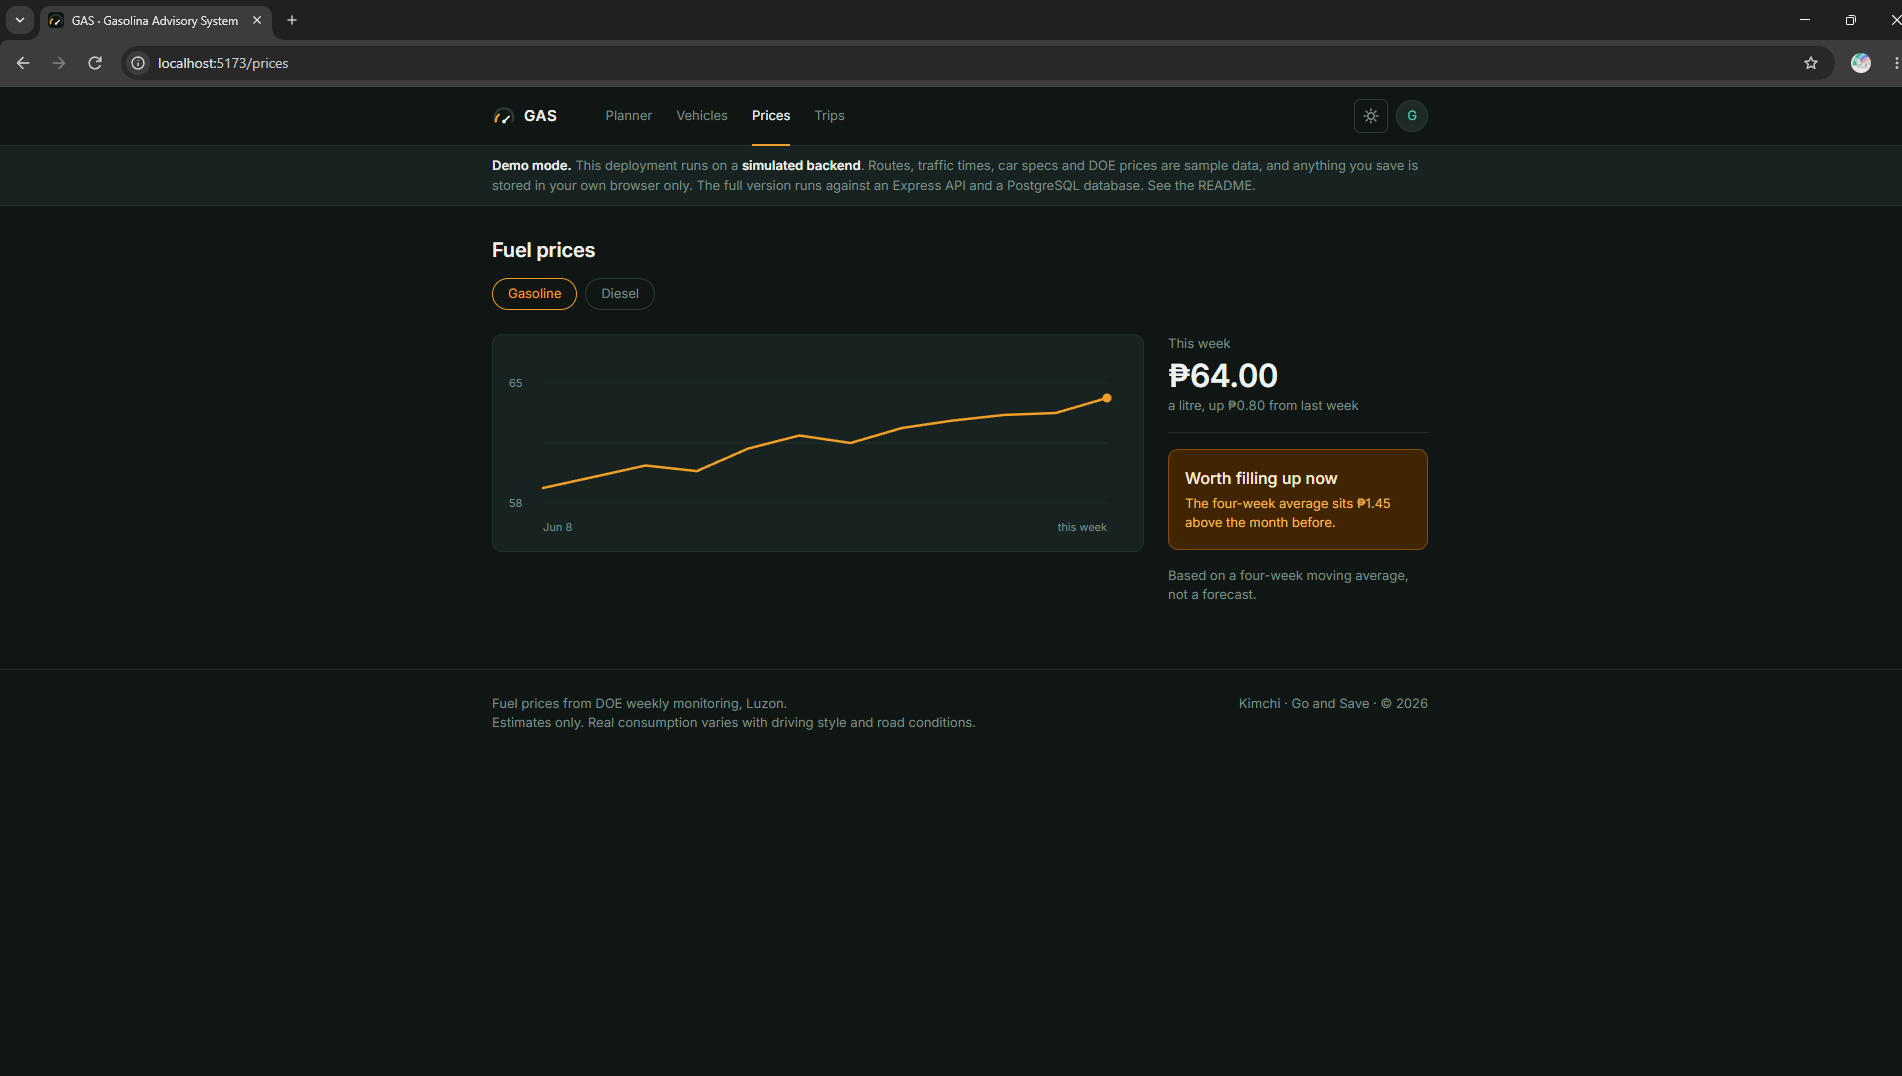
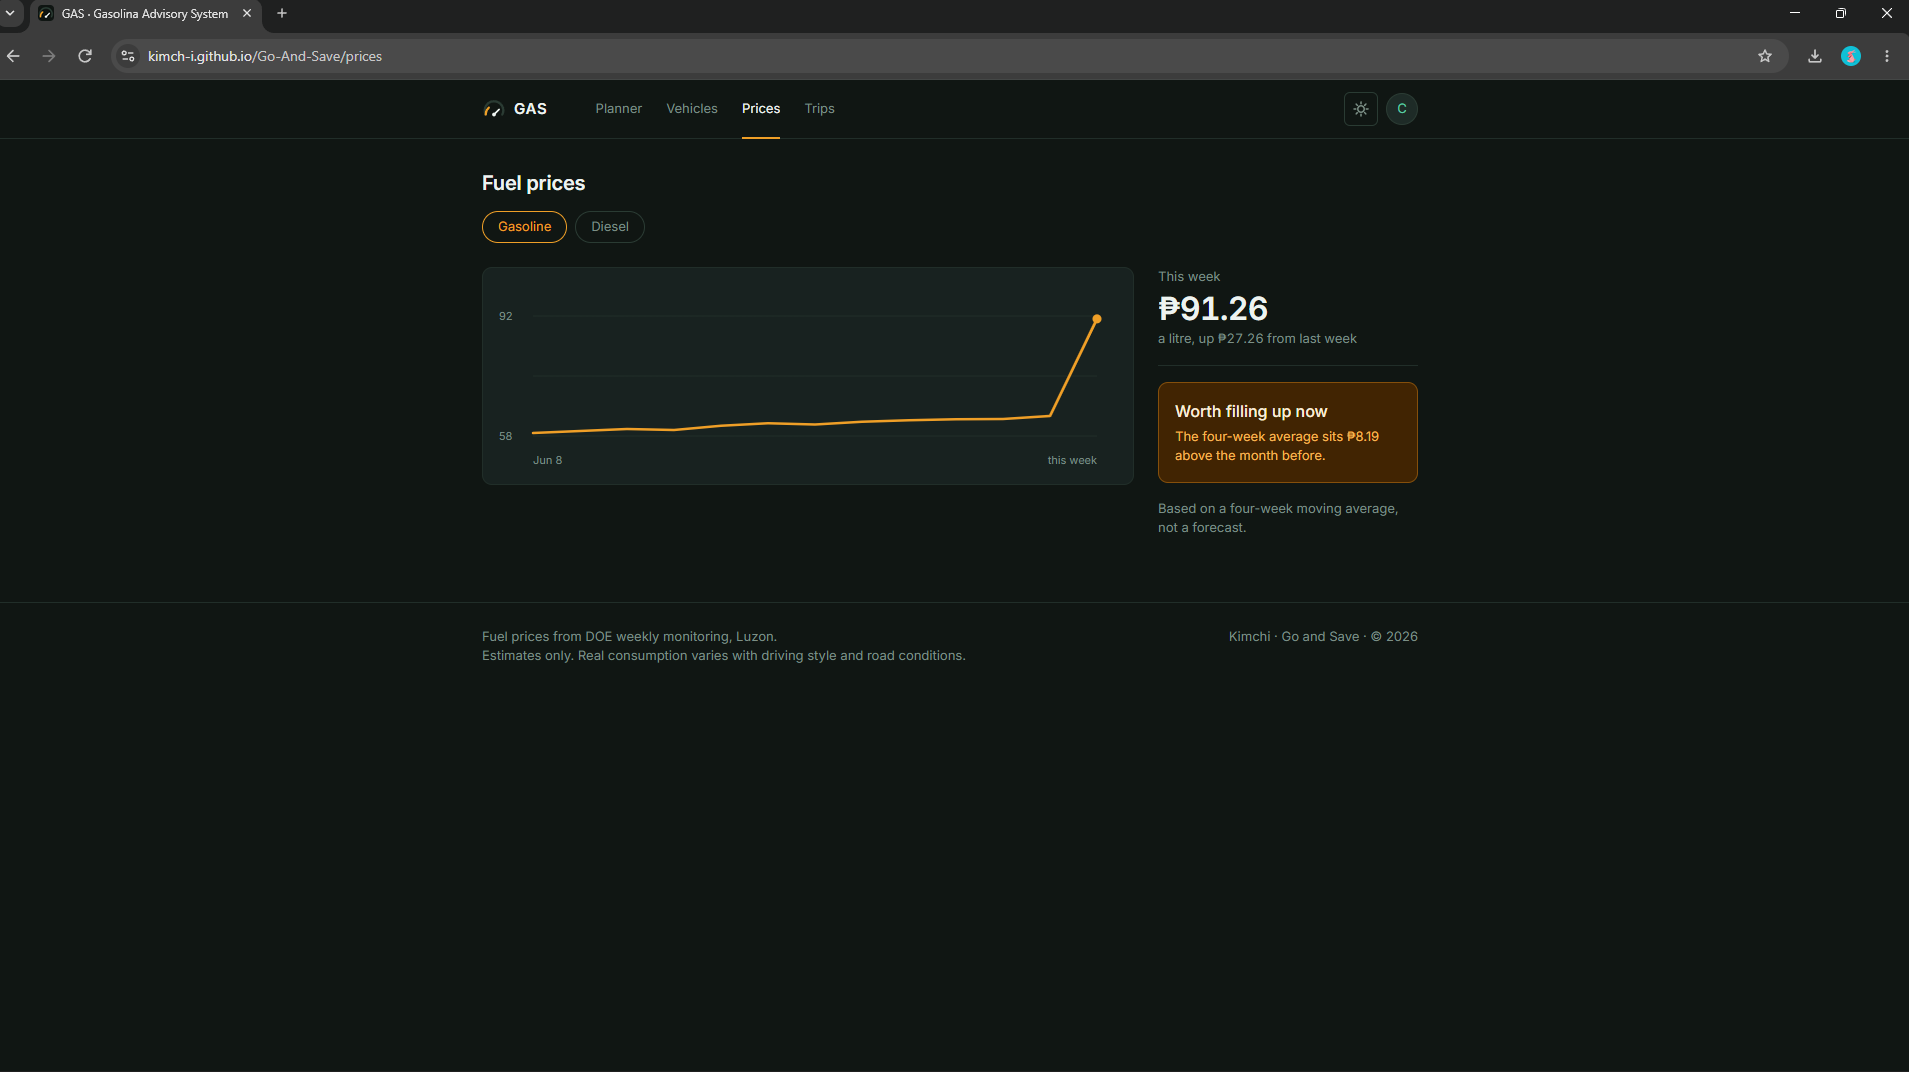
docs: Update the Readme file based on the current progress

diff --git a/README.md b/README.md
@@ -4,18 +4,15 @@ GAS tells a Philippine driver what a trip will cost in fuel before they leave:
 once for clear roads, and once for the traffic happening right now.
 
 **Live site:** https://kimch-i.github.io/Go-And-Save/
-**API:** not deployed yet
+**API:** https://gas-server-scf1.onrender.com
 **Demo video:** (link)
-
-> **This deployment is running in demo mode.** The interface is real; the backend
-> is simulated in your browser so the site works without a server. See
-> [Demo mode](#demo-mode) below. Delete this quote once the API is live.
 
 ![The Trip Planner Page](docs/assets/TripPlanner.png)
 ![List of Vehicles](docs/assets/Vehicles.png)
 ![Price graph of Gasoline](docs/assets/FuelPriceGasoline.png)
 ![Price graph of Diesel](docs/assets/FuelPriceDiesel.png)
 ![List of Save Trips](docs/assets/SaveTrips.png)
+![Profile Page](docs/assets/Profile.png)
 ![Page for LogIn](docs/assets/LogIn.png)
 ![Page for SignUp](docs/assets/SignUp.png)
 
@@ -25,9 +22,13 @@ once for clear roads, and once for the traffic happening right now.
   say how many people and how much cargo are riding
 - See two peso figures side by side: **if the road were clear**, and **leaving now**
   in current traffic, plus what traffic adds per trip and per month
-- Save trips and see what a repeated commute costs, and how much of it is lost to traffic
-- Pick your car from a catalog of Philippine-market vehicles instead of guessing your km/L
-- Check this week's DOE fuel price and whether it is worth filling up now
+- Save trips and see what a repeated commute costs, how much of it is lost to
+  traffic, and two charts of fuel spend and distance by day
+- Pick your car from a catalog of 66 Philippine-market vehicles instead of
+  guessing your km/L
+- Check this week's fuel price and whether it is worth filling up now, on a
+  price history that a weekly automated check keeps current (see
+  [Fuel price updates](#fuel-price-updates) below)
 
 Traffic does not change the distance, it changes the time. The extra cost is the
 fuel burned idling in the delay, which is why the two figures differ.
@@ -37,7 +38,7 @@ fuel burned idling in the delay, which is why the two figures differ.
 React and Vite on the front end, with React Router, CSS Modules and Leaflet with
 OpenStreetMap tiles. Express and PostgreSQL on the back end, with route times from
 the TomTom Routing API and place search from Nominatim. The client is on GitHub
-Pages; the API and database hosts are not chosen yet.
+Pages, the database is hosted on Neon, and the API is on Render.
 
 ## Demo mode
 
@@ -46,15 +47,17 @@ time.
 
 **Demo mode is the default.** Only the exact string `false` turns it off, so a
 forgotten or mistyped variable leaves you on the simulated backend with a visible
-notice rather than on a silently broken build.
+notice rather than on a silently broken build. The deployed site above is built
+with it off, so it talks to the real API.
 
 | `VITE_USE_MOCK_API` | What happens |
 | --- | --- |
-| unset, or `true` | The client answers its own requests from `client/src/api/mockApi.js`. Routes, traffic times, car specs and DOE prices come from `seed.json`; saved vehicles and trips stay in your browser. |
+| unset, or `true` | The client answers its own requests from `client/src/api/mockApi.js`. Routes, traffic times, car specs and prices come from `seed.json`; saved vehicles and trips stay in your browser. |
 | `false` | The client calls the Express API at `VITE_API_BASE_URL`, which reads and writes real PostgreSQL. |
 
-Demo mode is a starting point and a fallback, not the finished project. The finals
-submission is all three pieces deployed and talking to each other.
+Demo mode is still useful for running the front end with nothing to install, but
+the finals submission is all three pieces deployed and talking to each other,
+which is now the case for the live site.
 
 ## Running it yourself
 
@@ -66,9 +69,17 @@ submission is all three pieces deployed and talking to each other.
     npm run dev                 # http://localhost:5173
     npm test                    # the estimate maths, price trend and api layer
 
-**The whole stack.** The `server/` folder is still the course template's example
-API. It becomes the GAS API next; the routes it needs are listed at the top of
-`client/src/api/httpApi.js`.
+**The whole stack, locally.**
+
+    cd server
+    npm install
+    cp .env.example .env        # fill in DATABASE_URL, TOMTOM_API_KEY, JWT_SECRET
+    npm run db:reset            # creates tables, loads the 66-car catalog and price history
+    npm run dev                 # http://localhost:3000
+
+    cd client
+    # set VITE_USE_MOCK_API=false and VITE_API_BASE_URL=http://localhost:3000 in .env
+    npm run dev                 # http://localhost:5173
 
 ## Environment variables
 
@@ -77,11 +88,12 @@ placeholder values.
 
 | Name | Where | What it is |
 | --- | --- | --- |
-| `DATABASE_URL` | server | PostgreSQL connection string. Contains a password |
+| `DATABASE_URL` | server | PostgreSQL connection string (a Neon string in production). Contains a password |
 | `CORS_ORIGINS` | server | comma-separated origins allowed to call the API |
 | `TOMTOM_API_KEY` | server | for route and traffic times. Never in a `VITE_` variable |
-| `NODE_ENV` | server | `production` on the host |
-| `PORT` | server | set by the host |
+| `JWT_SECRET` | server | signs login tokens |
+| `NODE_ENV` | server | `production` on the host, `development` locally |
+| `PORT` | server | set by the host, never set this yourself |
 | `VITE_USE_MOCK_API` | client, at build time | only `false` turns demo mode off |
 | `VITE_API_BASE_URL` | client, at build time | the API's public URL, no trailing slash |
 
@@ -94,12 +106,37 @@ publishes on every push to `main` that touches `client/`. One-time setup:
 
 1. The repository must be **public**.
 2. **Settings > Pages > Build and deployment > Source: GitHub Actions.**
-3. Once the API is live, set `VITE_USE_MOCK_API` = `false` and `VITE_API_BASE_URL`
-   under **Settings > Secrets and variables > Actions > Variables**, then re-run
-   the workflow.
+3. **Settings > Secrets and variables > Actions > Variables**, set
+   `VITE_USE_MOCK_API` = `false` and `VITE_API_BASE_URL` to the API's URL.
 
 The workflow sets the base path to `/Go-And-Save/`, and the build copies
 `index.html` to `404.html`, so refreshing on `/trips` or `/vehicles` still works.
+
+**Database, on Neon.** Free tier, no card required. Chosen over Render's own
+free Postgres, which deletes itself after 30 days, a bad fit for a project
+that runs the whole term. Create a project, copy the connection string, then
+from `server/` run `npm run db:schema` and `npm run db:seed` against it once.
+
+**API, on Render.** New Web Service, connect the repo, root directory
+`server`, build command `npm install`, start command `npm start`, instance
+type Free. Set `DATABASE_URL` (the Neon string), `CORS_ORIGINS`, `NODE_ENV`,
+`TOMTOM_API_KEY` and `JWT_SECRET` under Environment. Do not set `PORT`, the
+host sets it. The free instance sleeps after 15 minutes idle, so the first
+request after a while takes 30 to 60 seconds to wake it up.
+
+## Fuel price updates
+
+Prices are not scraped live into the app. A scheduled GitHub Actions workflow
+(`.github/workflows/update-fuel-prices.yml`) checks a public price page once a
+week, and if it finds a plausible new number, opens a pull request with it
+rather than writing it into the database directly, I still have to look at
+the source and merge it myself. If the page cannot be parsed, the workflow
+fails loudly and nothing is written, on purpose, a bad number nobody checked
+is worse than a stale one.
+
+Merging that pull request only changes `seed.sql` and `seed.json` in the
+repo. It does not update the live database, `npm run db:seed` still has to be
+run against it by hand afterwards.
 
 ## Project structure
 
@@ -117,10 +154,19 @@ The workflow sets the base path to `/Go-And-Save/`, and the build copies
         components/
           atoms/          Button, TextInput, Select, Checkbox, Stepper, Tag, Spinner, Logo
           molecules/      LocationSearch, CostCard, LoadPanel, VehicleRow, TripRow, ...
-          organisms/      Header, Footer, TripForm, RouteMap, EstimateResult, TripTable, ...
+          organisms/      Header, Footer, TripForm, RouteMap, EstimateResult, TripTable,
+                           TripBarChart, PriceChart, ...
         pages/            one folder per route, plus AppLayout
-    server/               Express API (still the template's example)
-    docs/                 planning documents and weekly reports
+    server/
+      server.js          routes, helmet, rate limiting, error handling
+      auth.js            password hashing, JWT sign and verify
+      validate.js        server-side request validation
+      tomtom.js           route and traffic times
+      nominatim.js        place search
+      db/                 pool, schema.sql, seed.sql, one repo file per table
+    scripts/
+      update-fuel-prices.mjs   the weekly price check
+    docs/                planning documents and weekly reports
 
 Each component is a folder with a `.jsx` file and a `.module.css` file. A level
 never imports the level above it.
@@ -129,57 +175,68 @@ never imports the level above it.
 | --- | --- |
 | `/` | Trip Planner — works fully without an account |
 | `/vehicles`, `/vehicles/add` | Your vehicles, and the catalog search |
-| `/prices` | DOE prices, 12-week chart, fill-up-now reading |
-| `/trips` | Saved trips, monthly totals, lost to traffic |
+| `/prices` | Fuel prices, weekly chart, fill-up-now reading |
+| `/trips` | Saved trips, monthly totals, lost to traffic, spend and distance charts |
 | `/auth` | Log in / Sign up, one route with two tabs |
 | `/profile` | Account, theme, default vehicle, home location, export |
 
-## API (planned, not built yet)
+## API
 
-The client already calls these through `client/src/api/httpApi.js`. The Express
-server in `server/` will provide them; right now it is still the course
-template's example API.
+Express server in `server/`, deployed to Render.
 
 | Method | Path | What it does |
 | --- | --- | --- |
+| GET | `/healthz` | Is the process alive |
+| GET | `/readyz` | Is the database reachable |
 | GET | `/api/places?q=` | Search places (Nominatim) |
 | GET | `/api/route` | Distance plus traffic and no-traffic travel time (TomTom) |
-| GET | `/api/prices` | Weekly DOE fuel prices |
+| GET | `/api/prices` | Weekly fuel prices |
 | GET | `/api/cars?q=` | Search the Philippine car catalog |
 | GET, POST | `/api/vehicles` | List or add your vehicles |
 | DELETE | `/api/vehicles/:id` | Remove a vehicle |
 | GET, POST | `/api/trips` | List or save trips |
-| DELETE | `/api/account` | Delete your account data |
+| POST | `/api/auth/signup`, `/api/auth/login` | Create an account or log in |
+| PUT, DELETE | `/api/account` | Update or delete your account |
+
+`/api/auth/*`, `/api/places` and `/api/route` are rate limited, since the
+first accepts a password and the other two spend a real, metered call against
+Nominatim or TomTom on every request.
 
 ## Architecture
 
 The React client is the only thing the user loads. Every screen gets its data
-through `client/src/api/index.js`, which today answers from the browser and later
-calls the Express API. The API will call TomTom and Nominatim on the server, so no
-key reaches the browser, and read and write PostgreSQL for the car catalog, DOE
-prices, vehicles and trips. The two-number estimate itself is a pure function in
-`client/src/lib/estimate.js` and runs in the browser, so changing passengers or
-cargo updates the figures without a request.
+through `client/src/api/index.js`, which either answers from the browser
+(demo mode) or calls the deployed Express API. The API calls TomTom and
+Nominatim on the server, so no key reaches the browser, and reads and writes a
+hosted PostgreSQL database on Neon for the car catalog, fuel prices, vehicles
+and trips. The two-number estimate itself is a pure function in
+`client/src/lib/estimate.js` and runs in the browser, so changing passengers
+or cargo updates the figures without a request.
 
 ## Known issues
 
-- The server is still the template's example. There is no PostgreSQL, no TomTom
-  and no Nominatim wired up yet, so the app only runs in demo mode.
-- The car catalog in `seed.json` has a handful of sample cars, not the real 50 to
-  80 Philippine vehicles the project targets.
-- The TomTom free tier changed pricing on 1 July 2026 and has not been re-checked
-  against this project. If traffic data is unavailable once it is wired up, the
-  app should fall back to the ideal-only estimate.
-- There is no real authentication yet. Session is simulated for demo mode.
+- Only one row of the 66-car catalog (the Vios) is backed by a cited source.
+  The rest are my own estimates, from general knowledge of each model's
+  class, not from a spec sheet. Labeled as estimates in `seed.sql`.
+- Render's free web service sleeps after 15 minutes idle, so the first
+  request after a while takes 30 to 60 seconds to wake it up. Not a bug, a
+  free-tier tradeoff.
+- The app has six routes, `/profile` included. The proposal caps it at five.
+  This needs a decision, and the proposal, wireframes and design system
+  should then agree with each other.
+- Security checklist (`docs/06-security-and-privacy.md`) has not been walked
+  through box by box, even though several items (parameterised queries,
+  scoped CORS, helmet, rate limiting, a clean `npm audit`) are now true.
 
 ## What I would do next
 
-- Replace the template's example server with the GAS API: the routes listed in
-  `httpApi.js`, the schema, and seeded car catalog and DOE price tables
-- Confirm the TomTom free tier still returns both travel time and no-traffic time
-  after its July 2026 pricing change, before wiring the planner to it
-- Real accounts with email, password and JWT, moving a guest's saved trips to the
-  account on first sign-up
+- Finish `AI-USAGE.md`, now that `server/` has substantial work behind it
+- Walk through the security and privacy checklist properly
+- Decide the `/profile` route question and bring the proposal, wireframes and
+  design system back into agreement
+- Keep weekly reports and the reflection journal up day by day instead of
+  writing them after the fact
+- Record the demo video
 
 ## Developer
 
